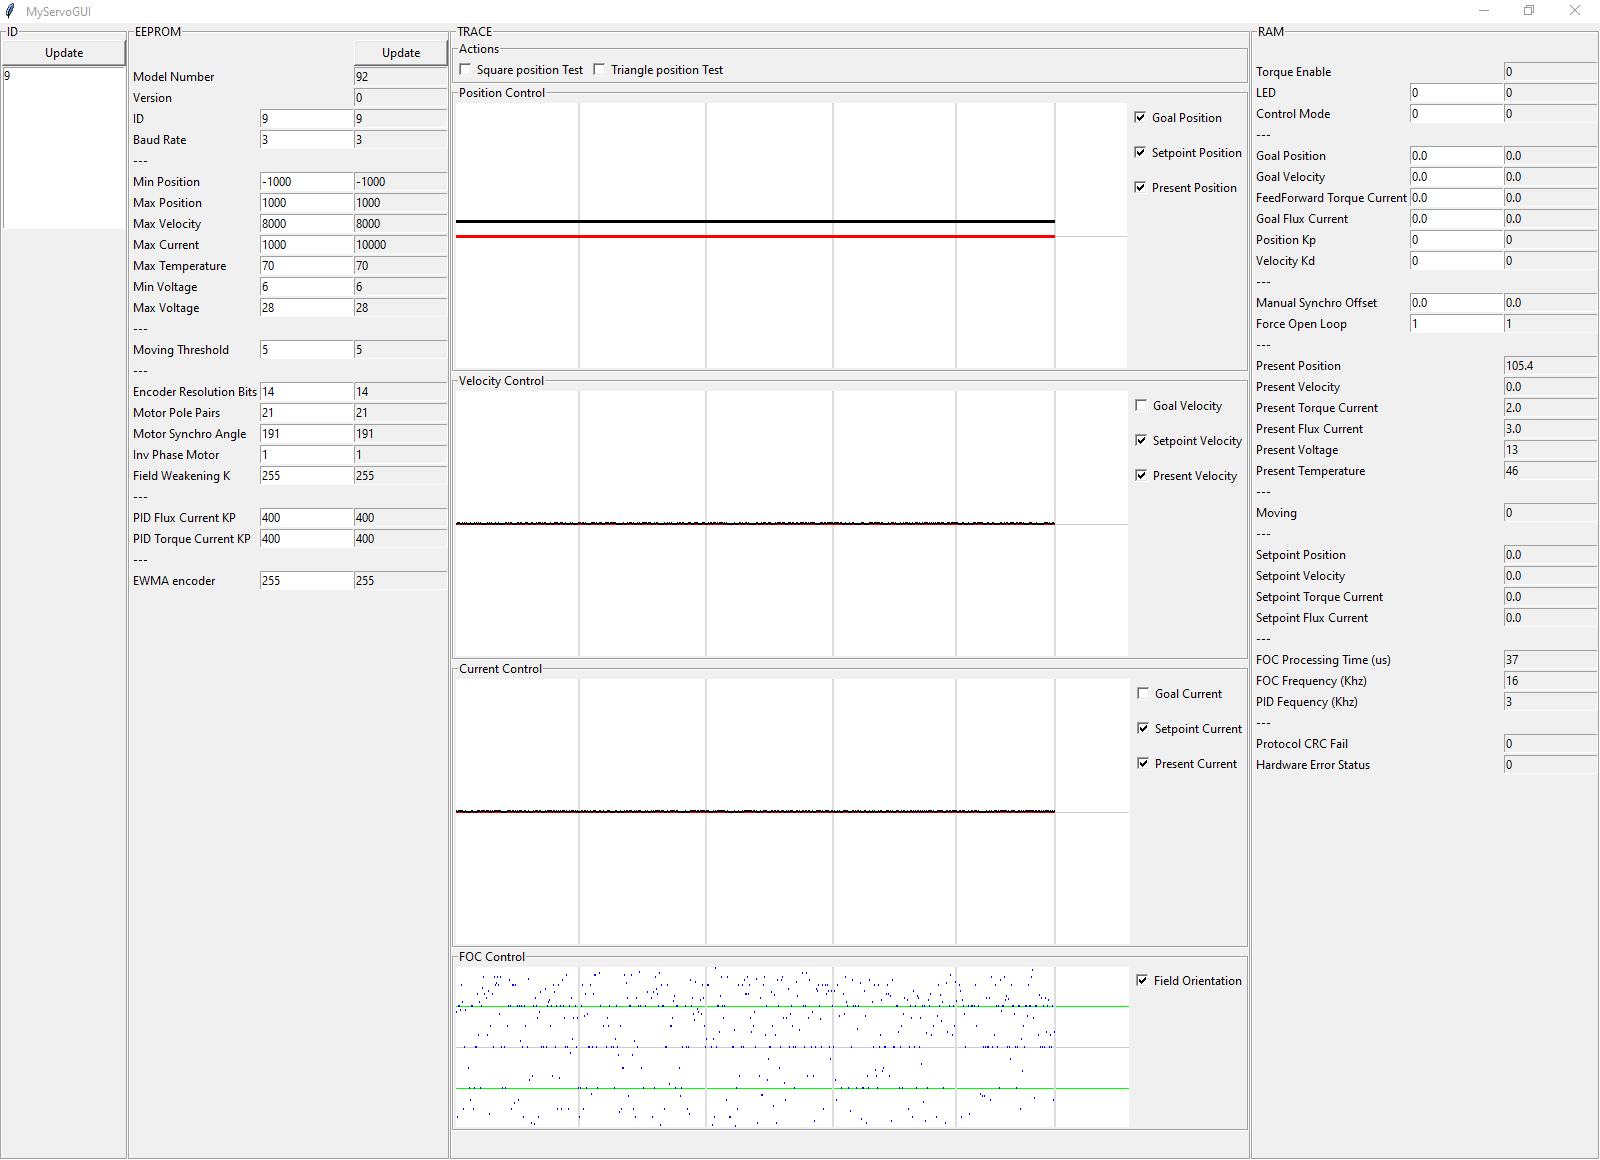
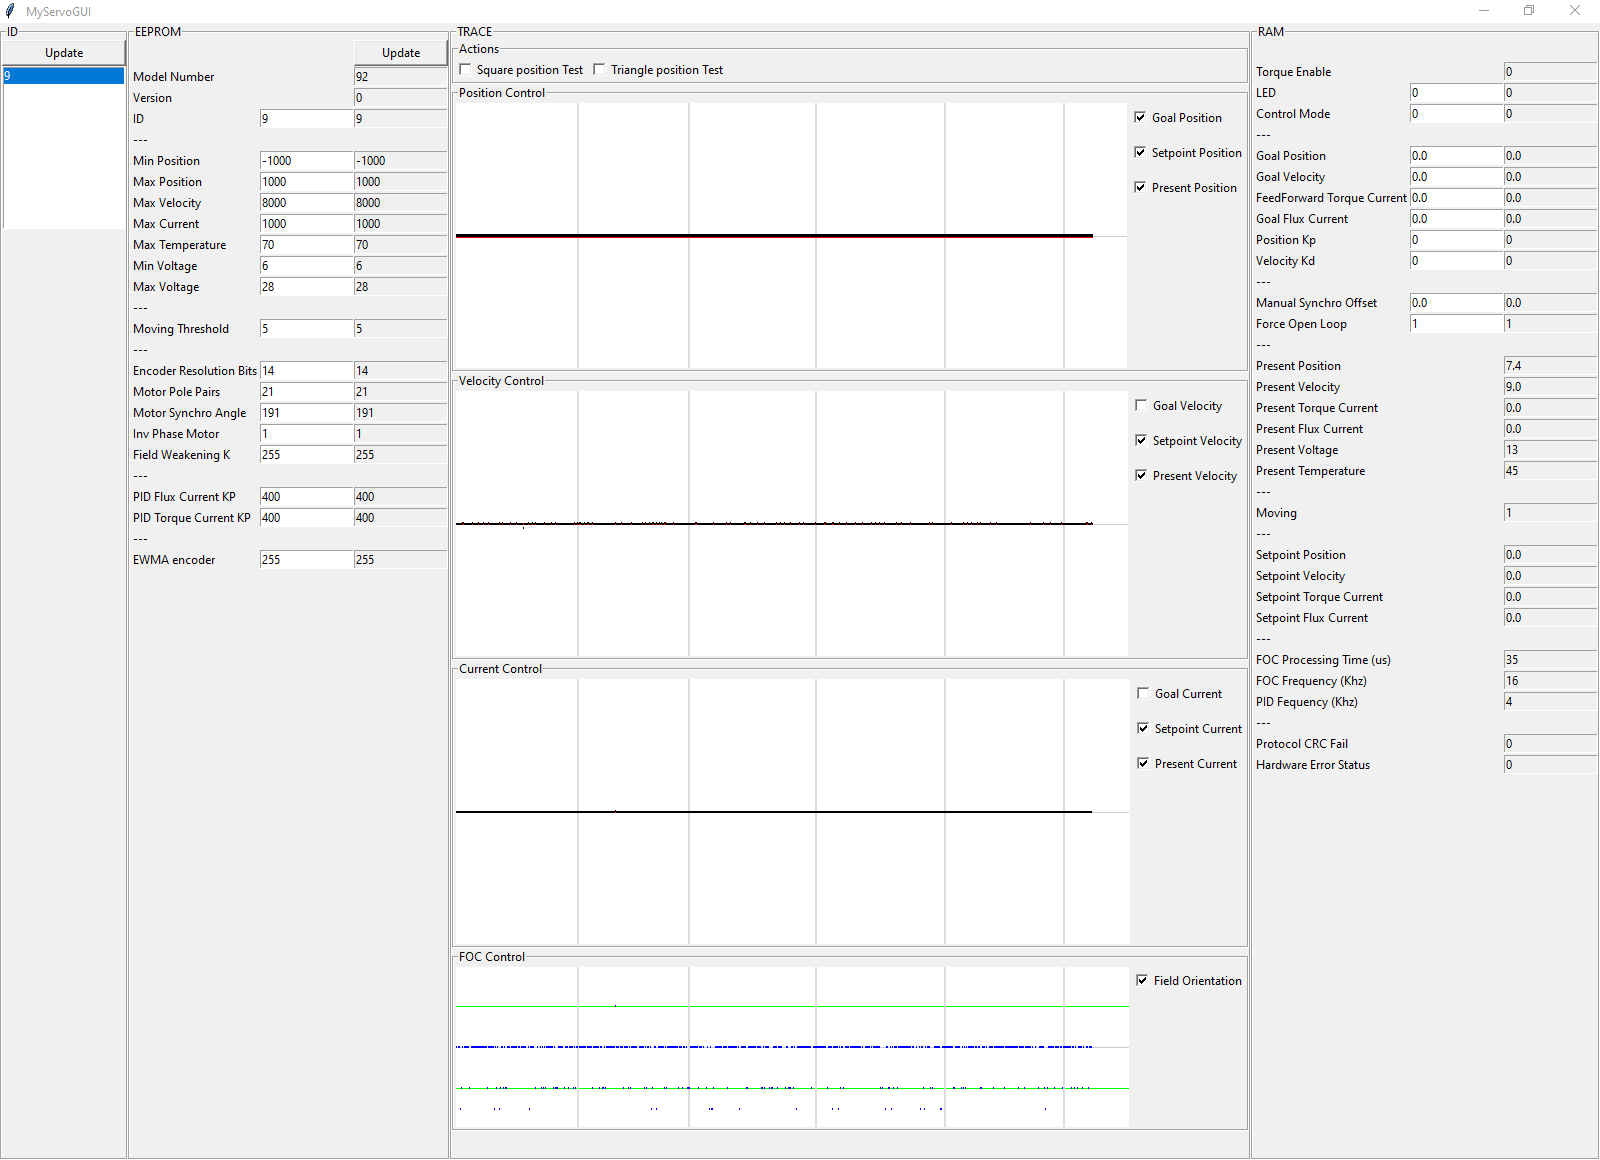
doc

diff --git a/02-GUI/SBSUtility/eeprom_frame.py b/02-GUI/SBSUtility/eeprom_frame.py
@@ -26,7 +26,7 @@ class eeprom_frame(LabelFrame):
 		self.gui_entry("Model Number", "model_number", 0, False, True, False, 0x01, 1, 2 )
 		self.gui_entry("Version", "version", 0, False, True, False, 0x02, 1, 1 )
 		self.gui_entry("ID", "id", 0, True, True, True, 0x03, 1, 1 )
-		self.gui_entry("Baud Rate", "baud_rate", 0, True, True, True, 0x04, 1, 1 )
+		#self.gui_entry("Baud Rate", "baud_rate", 0, True, True, True, 0x04, 1, 1 )
 		#self.gui_entry("Return Delay", "return_delay", 0, True, True, True, 0x05, 1, 1 )
 		self.gui_spacer("---")
 		self.gui_entry("Min Position", "min_position", 0, True, True, True, 0x10, 1, 2 )
@@ -146,8 +146,8 @@ class eeprom_frame(LabelFrame):
 			self.variables['version_servo'].set(str(result[2]))
 			self.variables['id_local'].set(str(result[3]))
 			self.variables['id_servo'].set(str(result[3]))
-			self.variables['baud_rate_local'].set(str(result[4]))
-			self.variables['baud_rate_servo'].set(str(result[4]))
+			#self.variables['baud_rate_local'].set(str(result[4]))
+			#self.variables['baud_rate_servo'].set(str(result[4]))
 			#self.variables['return_delay_local'].set(str(result[5]))
 			#self.variables['return_delay_servo'].set(str(result[5]))
 			self.variables['min_position_local'].set(str(sign(result[16] + (result[17]<<8))))
